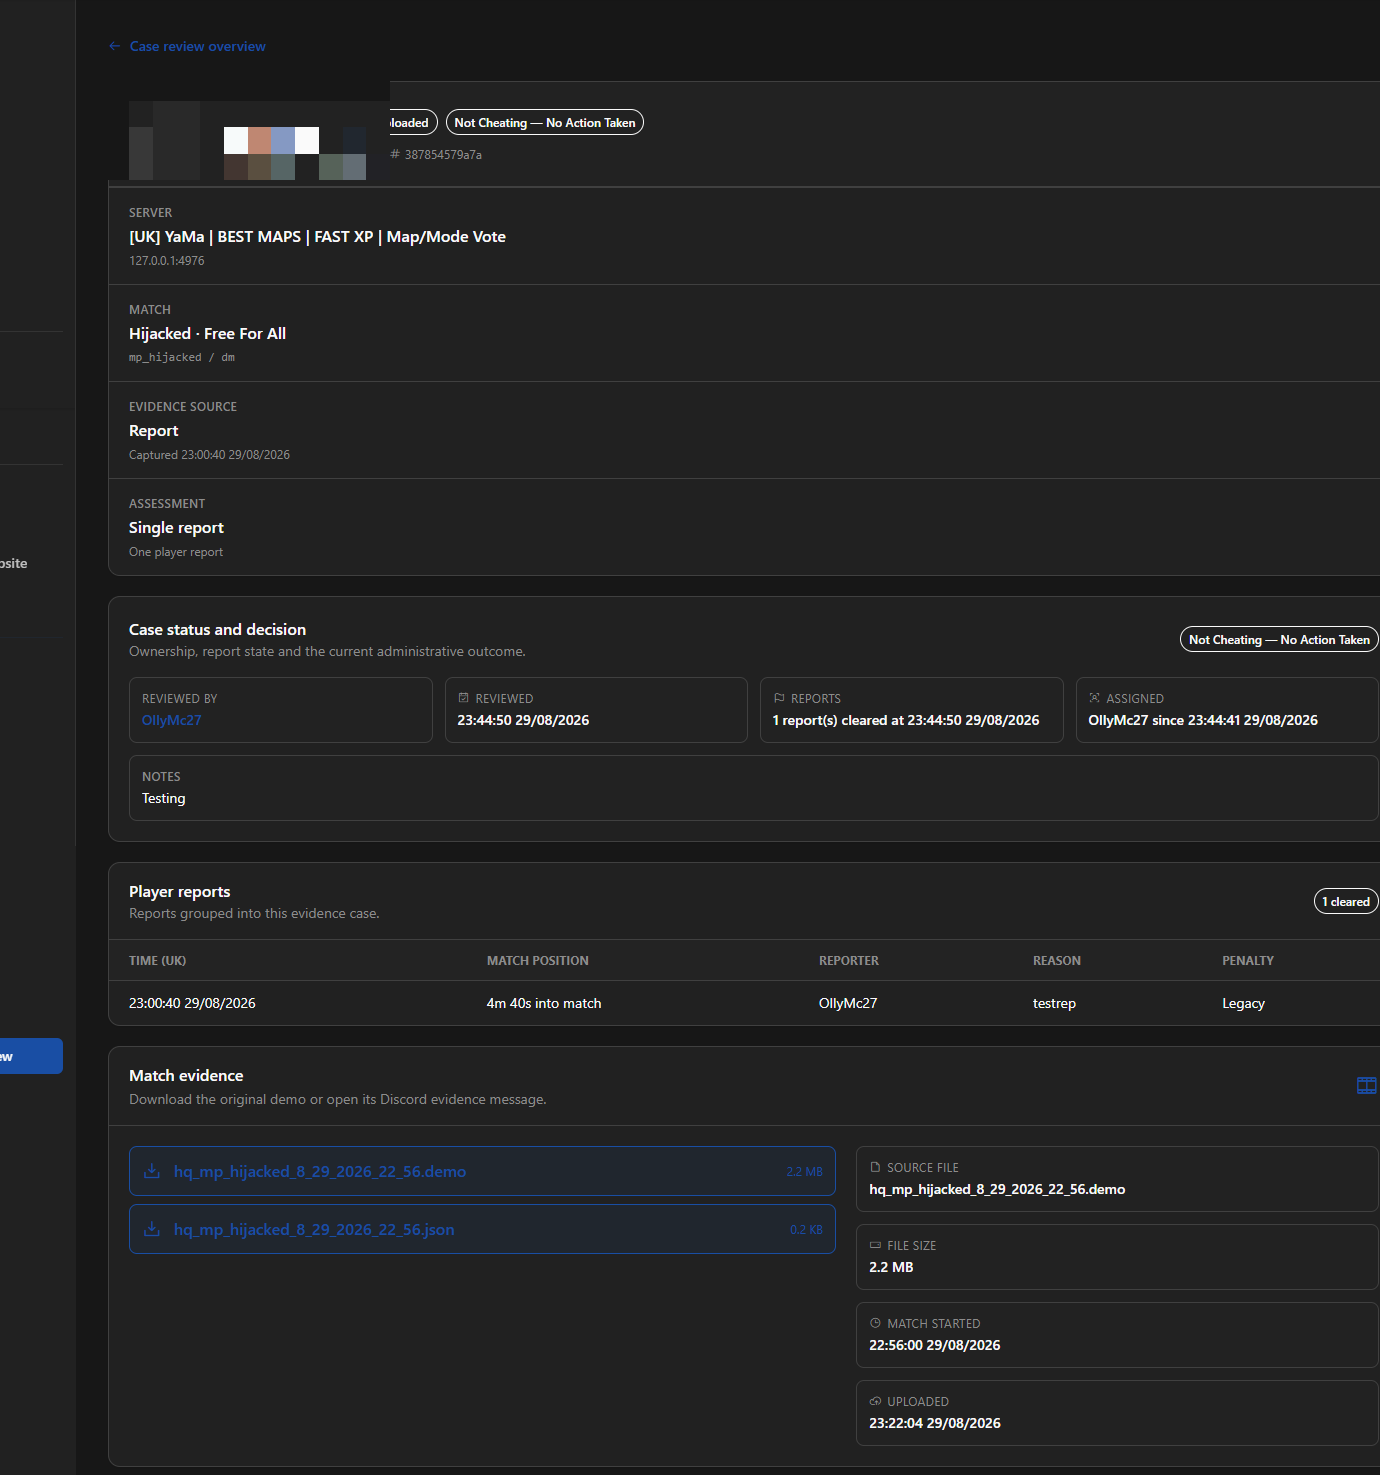
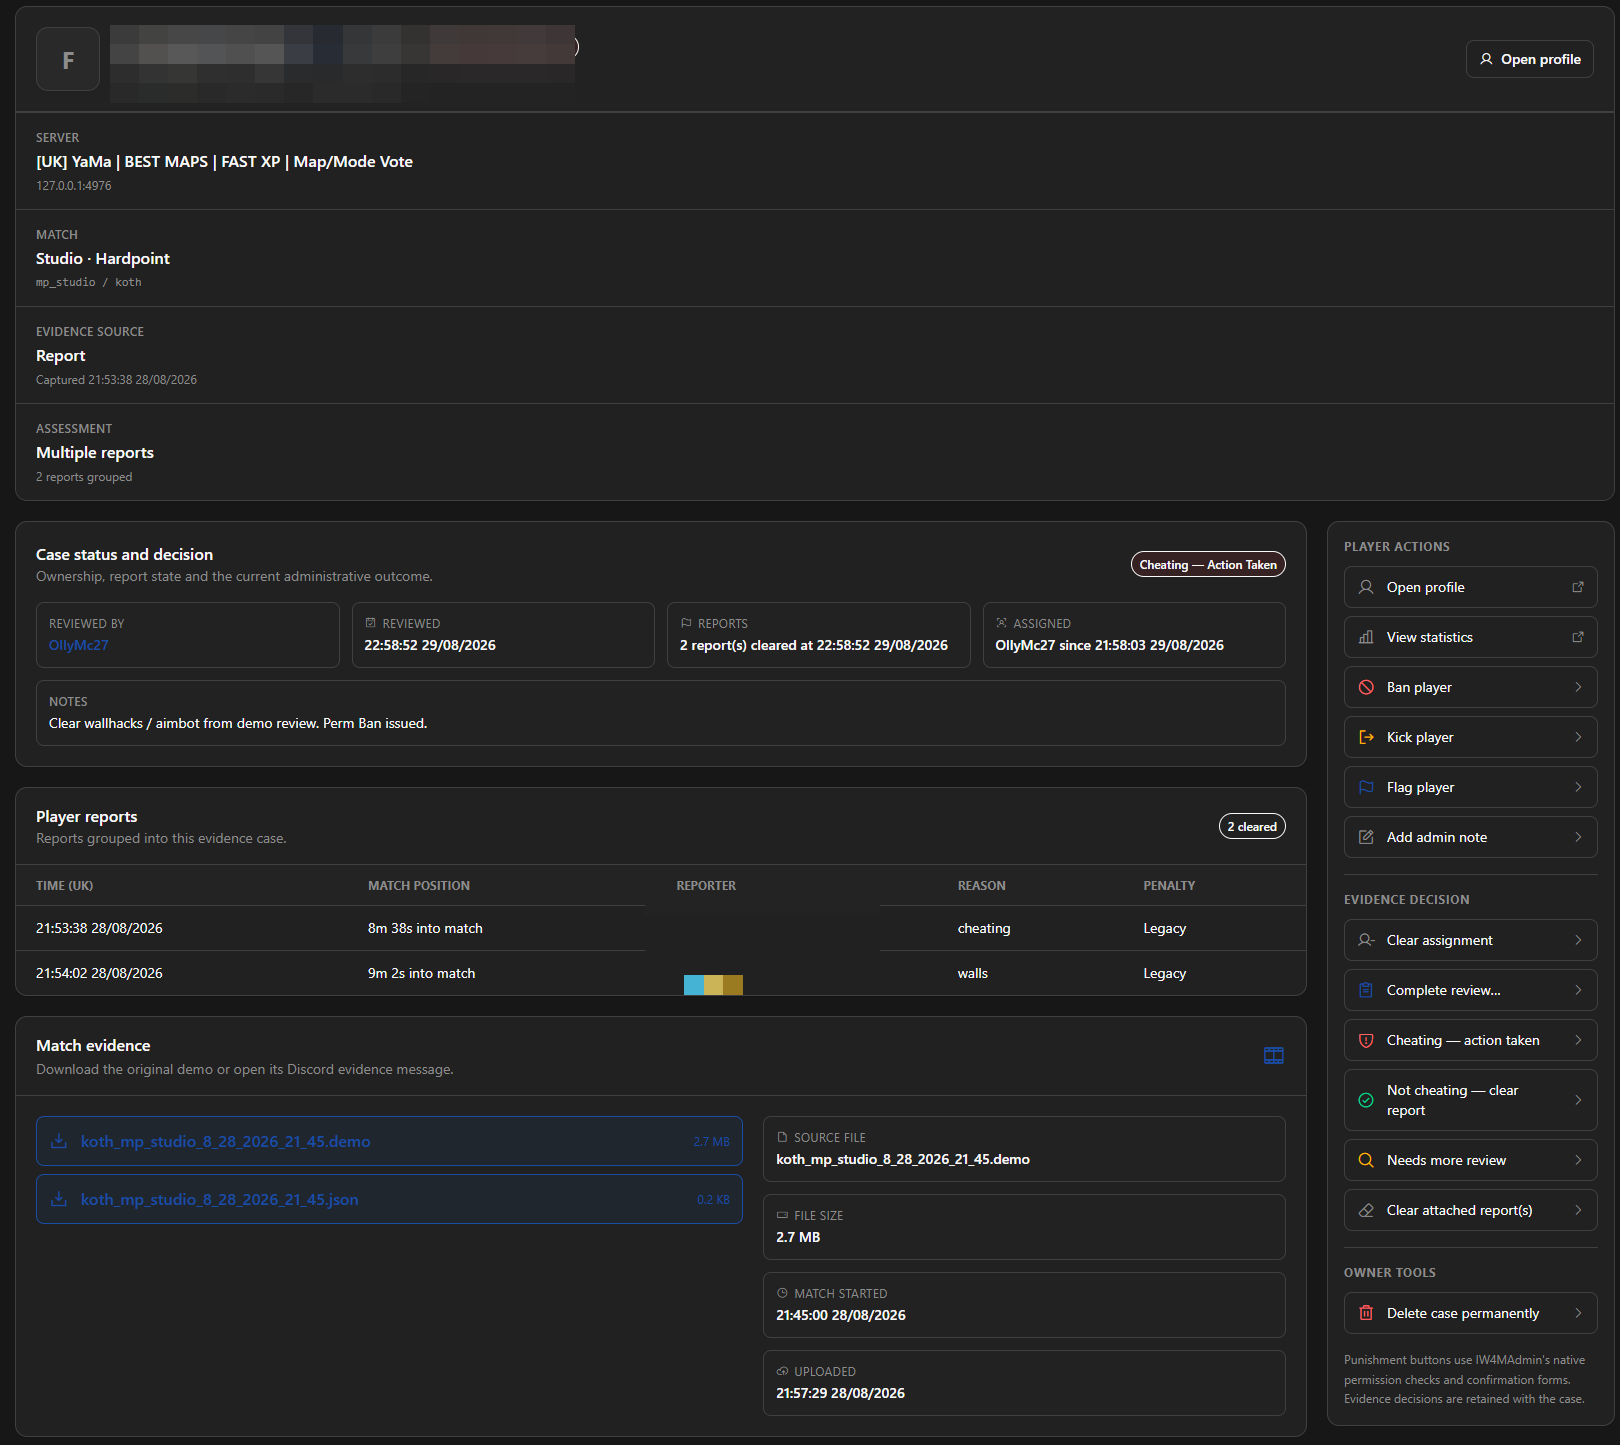
Refresh README and Wiki screenshots

diff --git a/wiki/Screenshots.md b/wiki/Screenshots.md
@@ -6,7 +6,7 @@ These publication screenshots show the complete DemosToDiscord workflow. Player,
 
 Start from compact status and utility queues. Retained cases stay out of the way until a moderator chooses a queue; search and advanced filters are available on demand.
 
-![Evidence queue with search, filters and mixed evidence states](https://raw.githubusercontent.com/OllyMc27/DemosToDiscord/master/docs/images/webfront-evidence-queue.png)
+![Cheating Case Review overview with compact status and utility queues](https://raw.githubusercontent.com/OllyMc27/DemosToDiscord/master/docs/images/webfront-evidence-queue.png)
 
 ## Structured case review
 
@@ -20,22 +20,20 @@ Use report offsets to jump to the relevant moment, with player, anti-cheat and p
 
 ![Match timeline, reports and anti-cheat metrics](https://raw.githubusercontent.com/OllyMc27/DemosToDiscord/master/docs/images/webfront-timeline-metrics.png)
 
-## Metadata-only evidence
+## Proactive review delivered to Discord
 
-T4, IW5 and T5 Zombies reports remain assignable and reviewable even though no demo can be recorded.
+Proactive statistical cases explain the score, any qualifying indicators and the human-review requirement without issuing a punishment. This diagnostic example shows how a normal assessment is explained when testing with a deliberately low case threshold.
 
-![Metadata-only evidence case](https://raw.githubusercontent.com/OllyMc27/DemosToDiscord/master/docs/images/webfront-metadata-only.png)
+![Proactive statistical review in Discord](https://raw.githubusercontent.com/OllyMc27/DemosToDiscord/master/docs/images/discord-proactive-review.png)
 
-## Evidence delivered to Discord
+## Report evidence delivered to Discord
 
 The original demo and T6 JSON metadata arrive with match context, report offsets and direct webfront links.
 
-![Discord evidence ready for review](https://raw.githubusercontent.com/OllyMc27/DemosToDiscord/master/docs/images/discord-evidence-ready.png)
+![Completed report evidence review](https://raw.githubusercontent.com/OllyMc27/DemosToDiscord/master/docs/images/discord-report-review.png)
 
 ## Review lifecycle
 
-Assignment and review changes update the original Discord message while its evidence remains attached.
-
-![Completed review reflected in Discord](https://raw.githubusercontent.com/OllyMc27/DemosToDiscord/master/docs/images/discord-review-completed.png)
+Assignment and review changes update the original Discord message while its evidence remains attached, as shown in the report-evidence example above.
 
 Continue with [[Webfront Guide|Webfront-Guide]], [[Discord Integration|Discord-Integration]] or [[Evidence Workflow|Evidence-Workflow]].

diff --git a/wiki/Discord-Integration.md b/wiki/Discord-Integration.md
@@ -58,7 +58,7 @@ A message can include:
 - reports or anti-cheat detection;
 - direct case and player-profile links.
 
-![Discord evidence message with original demo, JSON metadata and case links](https://raw.githubusercontent.com/OllyMc27/DemosToDiscord/master/docs/images/discord-evidence-ready.png)
+![Completed report evidence review with demo, timeline and case links](https://raw.githubusercontent.com/OllyMc27/DemosToDiscord/master/docs/images/discord-report-review.png)
 
 ## Attachments
 
@@ -89,6 +89,8 @@ Proactive cases are posted only when all three conditions are true:
 
 The message identifies the case as proactive, shows the explainable risk score/signals and links to normal human review. It never announces that the player is definitively cheating and never applies a penalty. See [[Proactive Detection|Proactive-Detection]].
 
+![Explainable proactive statistical review in Discord](https://raw.githubusercontent.com/OllyMc27/DemosToDiscord/master/docs/images/discord-proactive-review.png)
+
 ## Case and profile links
 
 Set IW4MAdmin's `Webfront.ManualUrl` to the public webfront address. Without it, Discord cannot construct a usable external review URL.
@@ -98,8 +100,6 @@ The embed title and **Review evidence case** link open the case. **Open player p
 ## Message updates
 
 When a case is assigned or reviewed, DemosToDiscord edits the original message rather than sending a duplicate. Existing demo/JSON attachments remain attached.
-
-![Completed review reflected in the original Discord evidence message](https://raw.githubusercontent.com/OllyMc27/DemosToDiscord/master/docs/images/discord-review-completed.png)
 
 ## CDN download links
 

diff --git a/README.md b/README.md
@@ -33,6 +33,8 @@ DemosToDiscord builds conservative, server-aware baselines from the live IW4MAdm
 
 [Read how proactive detection works](https://github.com/OllyMc27/DemosToDiscord/wiki/Proactive-Detection)
 
+![Explainable proactive statistical review in Discord](docs/images/discord-proactive-review.png)
+
 ## Everything needed to make a decision
 
 ![Structured evidence case review](docs/images/webfront-case-review.png)
@@ -47,7 +49,7 @@ The match timeline shows when recording began, when the player joined, every rep
 
 ## Discord evidence that stays in sync
 
-![Completed evidence review in Discord](docs/images/discord-review-completed.png)
+![Completed report evidence review in Discord](docs/images/discord-report-review.png)
 
 - Uploads the original `.demo` directly—no ZIP archive and no renamed theatre file.
 - Includes the T6 `.json` metadata sidecar when available.
@@ -57,8 +59,6 @@ The match timeline shows when recording began, when the player joined, every rep
 - Supports global, per-game and per-server webhooks with optional role mentions.
 
 ## No demo support does not mean a lost report
-
-![Metadata-only evidence case](docs/images/webfront-metadata-only.png)
 
 T4, IW5 and T5 Zombies reports remain fully actionable metadata-only cases. Administrators still get the report, player context, statistics, assignment, review controls and audit trail, with a clear explanation that recording is unsupported.
 

diff --git a/wiki/Webfront-Guide.md b/wiki/Webfront-Guide.md
@@ -15,7 +15,7 @@ The compact overview provides four status queues without immediately loading eve
 
 Cases remain visible when demos are unsupported or missing.
 
-![Evidence queue with search, filters and mixed evidence states](https://raw.githubusercontent.com/OllyMc27/DemosToDiscord/master/docs/images/webfront-evidence-queue.png)
+![Cheating Case Review overview with compact status and utility queues](https://raw.githubusercontent.com/OllyMc27/DemosToDiscord/master/docs/images/webfront-evidence-queue.png)
 
 ## Case browser and filters
 
@@ -99,8 +99,6 @@ Owners also see **Delete case permanently**. Deletion requires confirmation and 
 ## Metadata-only cases
 
 T4, IW5, T5 Zombies and explicitly unsupported servers retain the same review controls even when no demo can be recorded. The case explains the capability limitation while preserving reports, metrics, assignment, decisions and activity.
-
-![Metadata-only evidence case with complete review controls](https://raw.githubusercontent.com/OllyMc27/DemosToDiscord/master/docs/images/webfront-metadata-only.png)
 
 ## Other evidence and activity
 

diff --git a/wiki/Proactive-Detection.md b/wiki/Proactive-Detection.md
@@ -56,6 +56,8 @@ Every proactive option and exclusion is listed in [[Configuration]].
 
 A proactive case names each indicator that crossed the statistical floor, shows its observed value and comparable percentile, and explains why it contributed. The case also includes available match evidence, friendly and raw map/mode names, player metrics, assignments, notes and the normal decision controls.
 
+![Proactive statistical review delivered to Discord](https://raw.githubusercontent.com/OllyMc27/DemosToDiscord/master/docs/images/discord-proactive-review.png)
+
 If no indicator qualifies, there is no useful signal breakdown to display and, at production thresholds, no case is retained. Existing report/ban cases do not gain a retrospective proactive assessment.
 
 ## Confirm that it is running
